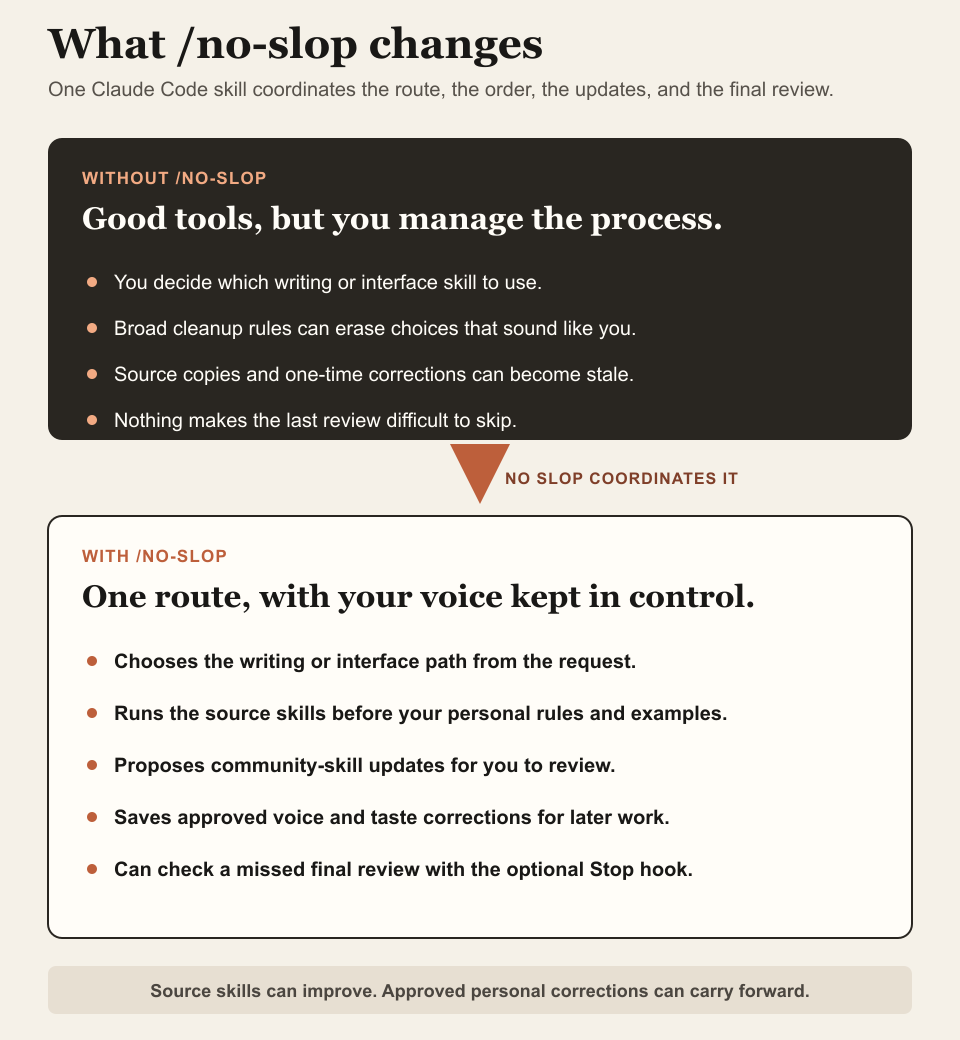
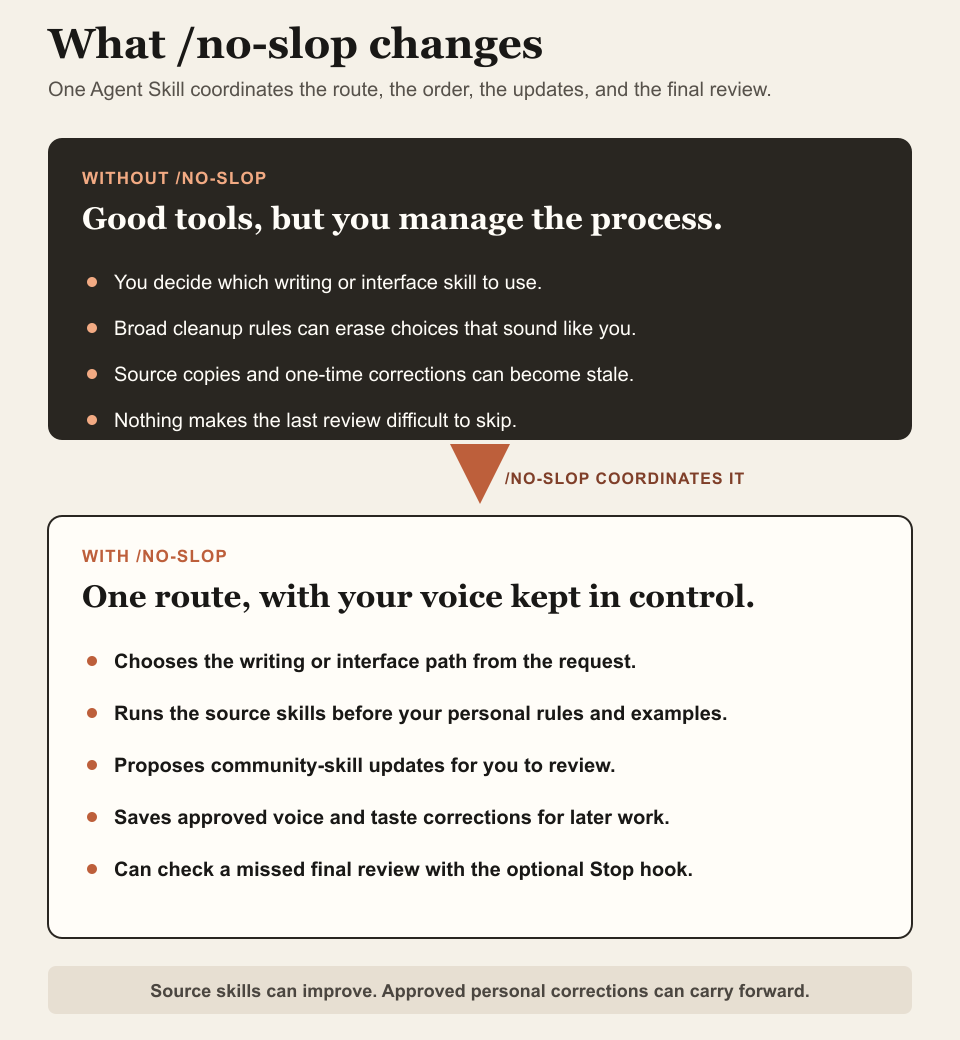
docs: make no-slop agent-agnostic and fix diagrams

Changed region(s): [[0.0938, 0.0615, 0.875, 0.0923], [0.5312, 0.4308, 0.7812, 0.4615]]

diff --git a/README.md b/README.md
@@ -1,6 +1,6 @@
-# No Slop: Clean AI Output Without Flattening Your Voice
+# Anti-Slop Skills Consolidated, Routed, and Updated in One Skill: /no-slop
 
-No Slop is one Claude Code skill that coordinates
+/no-slop is an Agent Skill that coordinates
 [Humanizer](https://github.com/blader/humanizer),
 [Stop Slop](https://github.com/hardikpandya/stop-slop),
 [Taste Skill](https://github.com/leonxlnx/taste-skill), and
@@ -9,21 +9,26 @@ separately. It chooses the appropriate path, runs the skills in a deliberate
 order, applies your own rules and examples, and performs a final review before
 the work is finished.
 
+Here, **your agent** means whatever LLM-powered agent you use. The core
+`SKILL.md` is designed to work in agents that support Agent Skills or Markdown
+instruction folders. Installation, automatic loading, and hooks still depend
+on the agent. The included Stop hook installer currently supports Claude Code.
+
 The system can keep improving through source updates and approved personal
 feedback. The updater can check the original GitHub repositories for changes
 to the included community skills and propose those changes for review.
 Approved feedback can be saved to your personal `voice/` files and used on
-later work. Source updates keep the shared checks current. Saved feedback stops
-you from having to repeat the same correction.
+later work. Source updates keep the included community skills current. Saved
+feedback stops you from having to repeat the same correction.
 
 ![What no-slop changes](assets/no-slop-at-a-glance.svg)
 
-- **Writing:** [Humanizer](https://github.com/blader/humanizer) ->
-  [Stop Slop](https://github.com/hardikpandya/stop-slop) -> your voice -> final
+- **Writing:** [/humanizer](https://github.com/blader/humanizer) ->
+  [/stop-slop](https://github.com/hardikpandya/stop-slop) -> your voice -> final
   review
-- **Interface:** [Taste Skill](https://github.com/leonxlnx/taste-skill) ->
-  [Impeccable](https://github.com/pbakaus/impeccable), when installed -> your
-  taste -> final review
+- **Interface:** [/taste](https://github.com/leonxlnx/taste-skill) ->
+  [/impeccable](https://github.com/pbakaus/impeccable), when installed -> your
+  design taste -> final review
 
 The goal is public-facing work that sounds and looks intentional while keeping
 your documented voice in control of the result.
@@ -40,21 +45,22 @@ No Slop runs this sequence:
    it is installed.
 2. **Your voice and taste.** Your rules, real writing samples, exceptions, and
    saved corrections are applied after the broad checks.
-3. **Final review.** Claude rereads the finished work, identifies anything that
-   still feels generic or unverified, and fixes it.
+3. **Final review.** Your agent rereads the finished work, identifies anything
+   that still feels generic or unverified, and fixes it.
 
-An optional Stop hook runs when Claude tries to finish. It checks that the final
-review happened and sends Claude back if it did not. The hook does not rewrite
-the work itself.
+In Claude Code, an optional Stop hook runs when the agent tries to finish. It
+checks that the final review happened and sends the agent back if it did not.
+The hook does not rewrite the work itself.
 
-![How the no-slop Claude Code skill cleans public-facing work](assets/no-slop-flow.svg)
+![How the no-slop Agent Skill handles public-facing work](assets/no-slop-flow.svg)
 
 ## What coordination adds
 
 Using one source skill by itself is valid for a narrow job. No Slop is useful
 when you do not want to manage the selection and order on every request.
 
-- **Selection:** Claude chooses the writing or interface path from the request.
+- **Selection:** Your agent chooses the writing or interface path from the
+  request.
 - **Order:** broad checks run before personal voice and taste, so a general rule
   does not get the final say over your documented style.
 - **Maintenance:** community updates can be reviewed and accepted without
@@ -111,9 +117,9 @@ interface work when it is available. It does not silently install it.
 
 ## Where it fits
 
-No Slop coordinates existing skills and applies personal preferences inside
-Claude Code. Model training, external AI-content detection, factual
-verification, and software testing remain separate concerns.
+/no-slop coordinates existing skills and applies personal preferences inside
+any agent that can load its instructions. Model training, external AI-content
+detection, factual verification, and software testing remain separate concerns.
 
 ### Limits
 
@@ -124,15 +130,15 @@ verification, and software testing remain separate concerns.
 - Voice learning requires the agent to save an approved rule or a correction.
 - Documented personal rules override copied community defaults.
 
-The included hook installer targets Claude Code. The Markdown instructions can
-inform another agent, but installation and automatic skill loading differ by
-client.
+The core instructions are agent-agnostic. Skill folders, automatic loading,
+slash commands, and hook formats differ between agents. The included hook
+installer and its settings paths target Claude Code only.
 
 ## Before you start
 
 You need:
 
-- Claude Code with skill support;
+- an AI agent that can load Agent Skills or Markdown instruction folders;
 - Git, if you install by cloning or use the updater; and
 - Node.js 18 or later for the updater, tests, and hook installer.
 
@@ -142,6 +148,11 @@ or quickly written samples are often more useful than polished copy because
 they contain less performance and editing.
 
 ## Install
+
+The commands below install `/no-slop` for Claude Code. For another agent, place
+the repository in that agent's supported skills directory. The core
+instructions remain the same, but discovery and slash-command behavior depend
+on the agent.
 
 macOS or Linux:
 
@@ -161,12 +172,12 @@ Then run:
 /no-slop voice
 ```
 
-Give Claude your writing samples, or use the guided brain-dump option if you do
-not have samples ready. Claude drafts voice rules from the evidence and asks
-you to approve them before they become standing rules.
+Give your agent your writing samples, or use the guided brain-dump option if
+you do not have samples ready. Your agent drafts voice rules from the evidence
+and asks you to approve them before they become standing rules.
 
-After setup, invoke `/no-slop` directly or ask Claude for public-facing writing
-or interface work that matches the skill description.
+After setup, invoke `/no-slop` directly or ask your agent for public-facing
+writing or interface work that matches the skill description.
 
 ## Make it yours
 
@@ -176,7 +187,7 @@ or interface work that matches the skill description.
 | `voice/design.md` | Your standing visual preferences and design limits |
 | `voice/corpus/` | Real examples of how you write or speak |
 | `voice/carve-outs.md` | Exceptions that may look wrong to a general rule but are genuinely yours |
-| `voice/learned.md` | Corrections recorded after you reject or rewrite Claude's output |
+| `voice/learned.md` | Corrections recorded after you reject or rewrite the agent's output |
 
 When a community rule conflicts with these files, your documented voice and
 taste win. That precedence is the point of the skill.
@@ -218,11 +229,18 @@ node scripts/update.mjs --check   # report changes without writing
 For local scheduling choices, see
 [`reference/scheduling.md`](reference/scheduling.md).
 
-## Optional final review hook
+The current updater keeps the registered source skills current. It does not
+automatically trust or import every new repository it finds. When a new or
+better anti-slop skill appears, review its license, instructions, overlap,
+safety, and whether it improves a writing or interface route. Add it to
+`sources.json` and the routing only when it earns a place. That is how
+`/no-slop` can keep expanding without blindly collecting prompt packages.
 
-The Stop hook runs after drafting, when Claude tries to finish. If the final
-response does not show that the No Slop review happened, the hook blocks the
-stop and asks Claude to perform the review.
+## Optional Claude Code final review hook
+
+The Stop hook runs after drafting, when the Claude Code agent tries to finish.
+If the final response does not show that the `/no-slop` review happened, the
+hook blocks the stop and asks the agent to perform the review.
 
 Install, inspect, or remove it with:
 
@@ -235,7 +253,7 @@ node scripts/hook.mjs remove
 The installer merges its marked handler into `~/.claude/settings.json`, keeps
 other hooks intact, and creates `settings.json.no-slop.bak` before the first
 change. Restart Claude Code after installing or removing it. The hook uses a
-fast model call whenever Claude tries to stop, so it adds some latency.
+fast model call whenever the agent tries to stop, so it adds some latency.
 
 See [`reference/hooks.md`](reference/hooks.md) for the complete behavior and
 limits.

diff --git a/SKILL.md b/SKILL.md
@@ -1,12 +1,12 @@
 ---
 name: no-slop
-description: The single entry point for making public-facing work not sound or look AI-generated. Claude should load it for prose another person will read (README, docs, email, post, video script, product copy, cover letter), interfaces and visual artifacts (website, landing page, dashboard, deck, asset), requests to humanize text or remove AI slop, and voice or writing-sample setup. Routes to copied community skills (humanizer, stop-slop, taste) and applies the user's voice layer last, which always wins. Not for quick conversational answers, internal scratch work, logs, or code with no public-facing copy.
+description: The single entry point for making public-facing work not sound or look AI-generated. The agent should load it for prose another person will read (README, docs, email, post, video script, product copy, cover letter), interfaces and visual artifacts (website, landing page, dashboard, deck, asset), requests to humanize text or remove AI slop, and voice or writing-sample setup. Routes to copied community skills (humanizer, stop-slop, taste) and applies the user's voice layer last, which always wins. Not for quick conversational answers, internal scratch work, logs, or code with no public-facing copy.
 user-invocable: true
 argument-hint: "[update | schedule | hook | learn | voice | status] [target]"
 license: MIT
 ---
 
-# No Slop
+# /no-slop
 
 One coordinator for public-facing writing and interfaces. It chooses the
 appropriate source skills, runs them in a deliberate order, applies the user's
@@ -15,8 +15,8 @@ voice and taste afterward, and requires a final review.
 Run this sequence:
 
 ```
-1. General cleanup    copied community skills: humanizer + stop-slop for
-                      writing, or taste + impeccable for interfaces
+1. General cleanup    copied community skills: /humanizer + /stop-slop for
+                      writing, or /taste + /impeccable for interfaces
 2. Personal voice     the user's own rules, samples, exceptions, and corrections
 3. Final review       reread the finished work, find what remains, and fix it
 ```
@@ -27,6 +27,12 @@ and final review to the user or agent each time. Keep two improvement paths
 separate: `scripts/update.mjs` refreshes only copied community files after
 review, while approved feedback is saved under `voice/` for later work. Never
 let a community update overwrite the personal path.
+
+**Use agent-agnostic language.** In these instructions, "the agent" means
+whatever LLM-powered agent is running the skill. The core Markdown workflow is
+portable to systems that can load Agent Skills or instruction folders. Name
+Claude Code only when discussing its exact skill path, settings file, or Stop
+hook. Do not imply that the included hook installer works in another agent.
 
 **The voice wins.** When an upstream file and a `voice/` file disagree, the
 voice is correct. Override silently. Do not ask the user to resolve it.
@@ -180,6 +186,13 @@ compares against the pinned commit, reports what changed, and writes only inside
 `voice/` cannot be clobbered by an upstream change.
 
 Use `--check` to see what would change without writing.
+
+Do not automatically import every new anti-slop repository. When the user or
+maintainer identifies a new or better skill, review its license, instructions,
+overlap, safety, maintenance quality, and whether it improves an existing route.
+Add it to `sources.json`, the protected updater, credits, and routing only when
+it earns a clear job. The updater keeps registered sources current; it does not
+discover or approve new sources on its own.
 
 ### `/no-slop schedule`
 

diff --git a/reference/hooks.md b/reference/hooks.md
@@ -1,19 +1,20 @@
 # Final audit hook
 
-Claude chooses whether to load a skill from its description. A hook is the
+Claude Code chooses whether to load a skill from its description. A hook is the
 deterministic backstop when the final audit must not depend on that choice.
 
-`no-slop` uses a prompt-based `Stop` hook. When Claude is about to finish a
+`no-slop` uses a prompt-based `Stop` hook. When the Claude Code agent is about
+to finish a
 turn, a fast model checks whether the result contains a public-facing
 deliverable and whether the final response records a no-slop audit. If the
-audit is missing, the hook prevents the turn from ending and tells Claude to
+audit is missing, the hook prevents the turn from ending and tells the agent to
 run the skill in embedded mode, fix the result, and try again.
 
 ## Where it runs
 
-The hook runs after Claude has drafted the work, at the moment Claude tries to
+The hook runs after the agent has drafted the work, at the moment it tries to
 stop. The final review should already have happened. If the evidence is
-missing, the hook sends Claude back to that review step. It does not participate
+missing, the hook sends the agent back to that review step. It does not participate
 in skill selection, writing cleanup, voice calibration, or weekly GitHub
 updates.
 
@@ -40,12 +41,13 @@ Restart Claude Code after installing or removing the hook.
 - `UserPromptSubmit` runs before the deliverable exists and would spend a model
   call classifying every prompt.
 - `PostToolUse` sees individual file edits, not the finished deliverable.
-- `Stop` sees the final response and can send Claude back for one last pass.
+- `Stop` sees the final response and can send the agent back for one last pass.
 
 ## Limits
 
 This is a judgment gate, not a content scanner. The prompt hook primarily sees
-Claude's final message, so the skill must finish public-facing work with a
+The hook reads the agent's final message, so the skill must finish
+public-facing work with a
 short `No-slop audit passed` note. The hook does not prove that every claim is
 true, and it does not replace tests, link checks, browser inspection, or the
 mechanical `impeccable` detector for interfaces.

diff --git a/voice/prose.md b/voice/prose.md
@@ -15,6 +15,9 @@ comments, commit messages, and chat replies.
 - **No unverified claims.** If a guide, source, test, benchmark, or integration
   was not checked, do not say it was.
 - **No privacy-sensitive facts in public copy.**
+- **Keep portable behavior agent-agnostic.** Say "your agent" or "whatever
+  LLM-powered agent you use" for core behavior. Name Claude Code only for an
+  exact Claude Code-only path, hook, setting, or install step.
 
 ## Defaults
 
